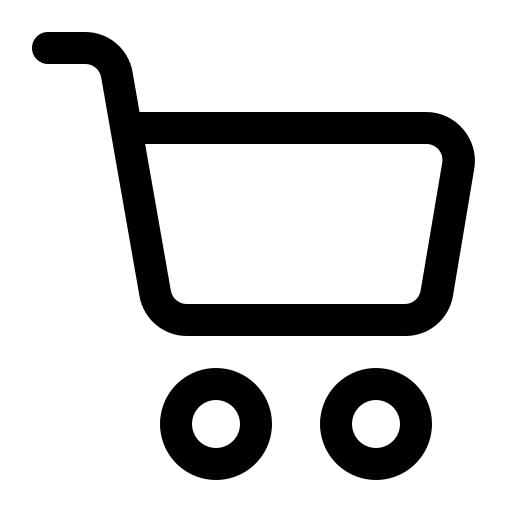
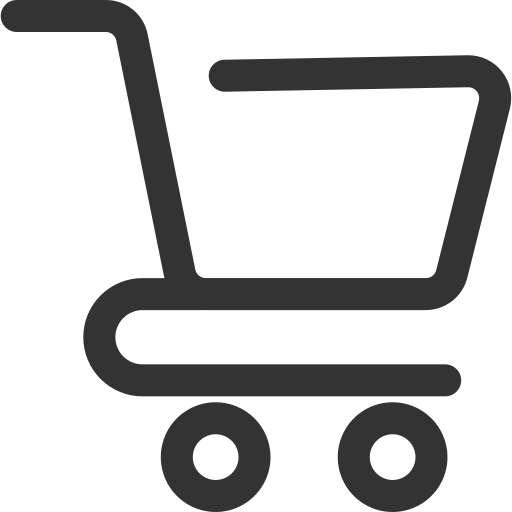
carrito nuevo

diff --git a/src/main.jsx b/src/main.jsx
@@ -1,49 +1,10 @@
-import React from 'react';
-import ReactDOM from 'react-dom/client';
-import { Route, Switch } from 'wouter';
-import axios from 'axios';
-import App from './App.jsx';
-import './index.css';
-
-// Configuración global de axios
-axios.defaults.baseURL = 'http://localhost:5000/api';
-axios.defaults.timeout = 10000;
-
-// Interceptor para agregar token automáticamente
-axios.interceptors.request.use(
-  (config) => {
-    const user = JSON.parse(localStorage.getItem('user') || '{}');
-    if (user.token) {
-      config.headers.Authorization = user.token;
-    }
-    return config;
-  },
-  (error) => Promise.reject(error)
-);
-
-// Interceptor para manejar errores de autenticación
-axios.interceptors.response.use(
-  (response) => response,
-  (error) => {
-    if (error.response?.status === 401) {
-      localStorage.removeItem('user');//para guardar los datos del usuario en localStorage
-      window.dispatchEvent(new Event('storage'));
-    }
-    return Promise.reject(error);
-  }
-);
-
-ReactDOM.createRoot(document.getElementById('root')).render(
-  <React.StrictMode>
-    <Switch>
-      <Route path="/" component={App} />
-      <Route path="/carrito" component={App} />
-      <Route path="/producto/:id" component={App} />
-      <Route path="/miperfil" component={App} />
-      <Route path="/iniciar-sesion" component={App} />
-      <Route path="/registrarse" component={App} />
-      <Route path="/admin" component={App} />
-      <Route path="/compras" component={App} />
-    </Switch>
-  </React.StrictMode>,
-);
+import React from "react";
+import ReactDOM from "react-dom/client";
+import App from './App.jsx'
+import {BrowserRouter} from 'react-router-dom'
+import './index.css'
+ReactDOM.createRoot(document.getElementById("root")).render(
+  <BrowserRouter>
+    <App />
+  </BrowserRouter> 
+)

diff --git a/src/Componentes/Vista-Carrito/VistaCarrito.css b/src/Componentes/Vista-Carrito/VistaCarrito.css
@@ -1,4 +1,3 @@
-
 .Carrito-container {
   font-size: 20px;
   width: 100vw;
@@ -28,13 +27,17 @@ h2.tituloCarrito {
     font-style: normal;
     align-items: center;
     justify-content: center;
-  
 }
 
-
+.carrito {
+  display: flex;
+  flex-direction: column;
+  align-items: flex-end; /* Solo esto alinea el carrito a la derecha */
+  margin-right: 20px; /* Espacio del borde derecho */
+}
 
 .itemsLista {
-  margin-left: 450px;
+  /* Eliminamos margin-left: 450px */
   display: flex;
   flex-direction: column;
   flex-wrap: nowrap;
@@ -95,13 +98,13 @@ h2.tituloCarrito {
 
 .Carrito-total {
   box-shadow: 0px 1px 4px 1px #7a7a7a;
-    top: -8px;
-    left: 460px;
-    position: relative;
-    border-radius: 16px;
-    background: white;
-    width: 58%;
-    text-align: center;
+  /* Eliminamos top: -8px y left: 460px */
+  position: relative;
+  border-radius: 16px;
+  background: white;
+  width: 770px; /* Mismo ancho que los items */
+  text-align: center;
+  margin-top: 20px;
 }
 
 :hover.Boton-Comprar {
@@ -140,7 +143,7 @@ h2.tituloCarrito {
   appearance: none;
   background: #6A1452;
   width: 50px;
-    height: 30px;
+  height: 30px;
   border-radius: 30px;
   text-align: center;
   font: inherit;
@@ -153,4 +156,3 @@ h2.tituloCarrito {
   -webkit-appearance: none;
   margin: 0;
 }
-
